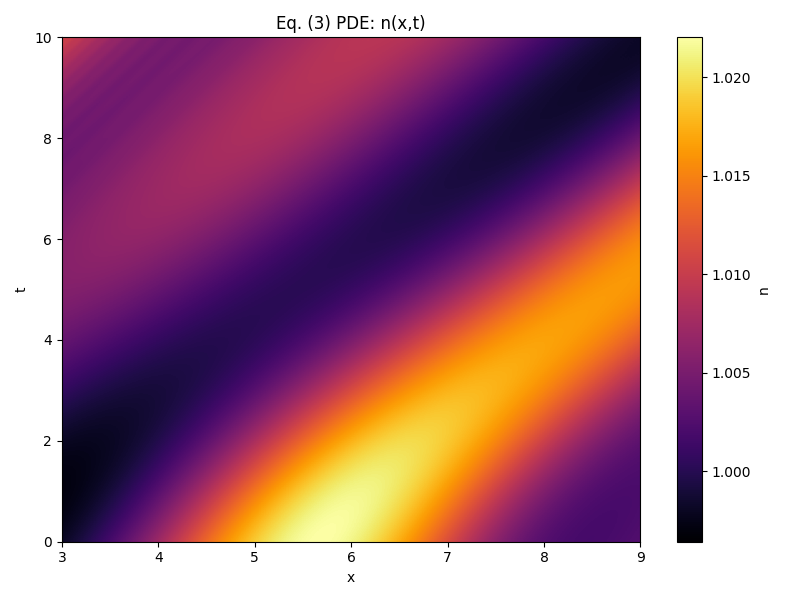
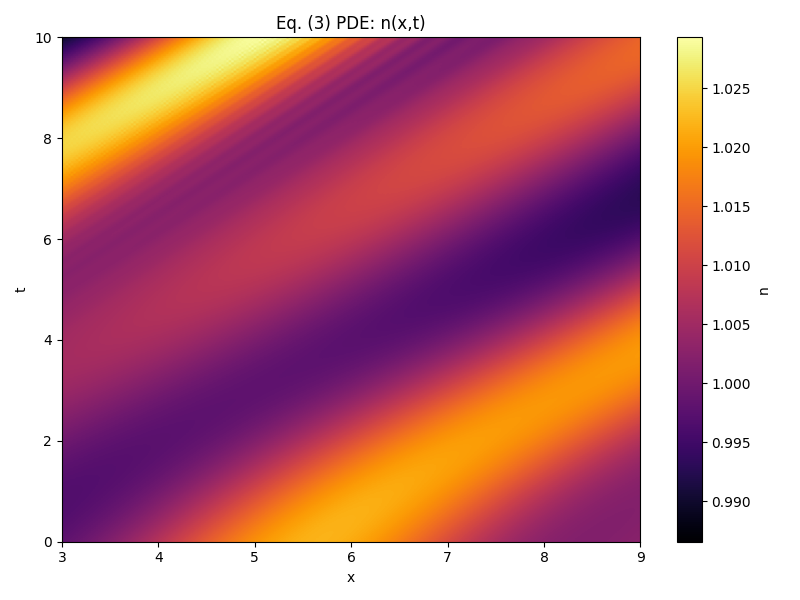
Add new simulation for zero initial velocity (Aligned REAL zero drift velocity) in 1D charged fluid with nonzero background density profile

diff --git a/animation/static background doping profile/nonzero background nbar/u (small)/zero-velocity-patch/zero_initial_velocity.py b/animation/static background doping profile/nonzero background nbar/u (small)/zero-velocity-patch/zero_initial_velocity.py
@@ -1,0 +1,195 @@
+import numpy as np
+import matplotlib.pyplot as plt
+from dataclasses import dataclass
+from numpy.fft import fft, ifft, fftfreq
+from scipy.integrate import solve_ivp
+import os
+
+# -------------------------- Parameters --------------------------
+@dataclass
+class Par:
+    m: float = 1.0
+    e: float = 1.0
+    n0: float = 1.0
+    U: float = 1.0                   # Π0'(n)=U n  -> c_s = sqrt(U n0 / m)
+    Gamma0: float = 0.08
+    w: float = 1.0
+    epsilon: float = 15.0
+    # background (fixed ionic profile used in Poisson)
+    n1: float = 0.02
+    lam: float = 0.005 / 4
+    x0: float = 0.55                 # as fraction of L
+    # numerics
+    L: float = 100.0
+    Nx: int = 256
+    t_final: float = 160.0
+    n_save: int = 220
+    rtol: float = 1e-7
+    atol: float = 1e-9
+    n_floor: float = 1e-12
+    # output
+    save_frames: bool = True
+    frames_dir: str = "frames_nbar"
+    cmap: str = "inferno"
+
+# >>> choose your target drift here
+u_target = 0.0   # try 0.0, 0.1, 0.2, ...
+
+par = Par()
+
+# ----------------------- Grid & spectral ops ---------------------
+x = np.linspace(0.0, par.L, par.Nx, endpoint=False)
+dx = x[1] - x[0]
+k  = 2*np.pi*fftfreq(par.Nx, d=dx)
+ik = 1j*k
+inv_k2 = np.zeros_like(k, dtype=np.complex128)
+nz = (k != 0); inv_k2[nz] = 1.0/(k[nz]**2)
+
+def Dx(f): return (ifft(ik*fft(f))).real
+
+# -------------------- Material and helpers ----------------------
+def Gamma(n): return par.Gamma0 * np.exp(-n/par.w)
+def Pi0(n):   return 0.5 * par.U * n**2
+
+def periodic_delta(x, x0, L):
+    return (x - x0 + 0.5*L) % L - 0.5*L
+
+def nbar_profile():
+    xc = par.x0 * par.L
+    d = periodic_delta(x, xc, par.L)
+    return par.n0 + par.n1 * np.exp(-0.5 * par.lam * d**2)
+
+# Poisson with background: φ'' = -(e/ε) (n - nbar)
+def phi_from_n_with_bg(n, nbar):
+    rhs_hat = fft((par.e/par.epsilon) * (n - nbar))
+    phi_hat = inv_k2 * rhs_hat
+    phi_hat[0] = 0.0
+    return ifft(phi_hat).real
+
+# -------------------- Equilibrium E(x) for given u ---------------------
+def E_equilibrium_profile(nbar, u):
+    # From steady momentum balance with phi_x = 0 and n = nbar:
+    # Γ(nbar) m nbar u + ∂x[ 0.5 U nbar^2 + m nbar u^2 ] = e nbar E(x)
+    # => E(x) = (m/e) Γ(nbar) u + ((U + m u^2)/(e nbar)) * ∂x nbar
+    dnb = Dx(nbar)
+    return (par.m/par.e) * Gamma(nbar) * u + ((par.U + par.m*u*u)/(par.e*nbar)) * dnb
+
+# ----------------------- Initial fields --------------------------
+def initial_fields(u_star):
+    nbar = nbar_profile()
+    # Start exactly on the static branch: n = nbar, p = m nbar u_star
+    n0 = np.maximum(nbar.copy(), par.n_floor)
+    p0 = par.m * n0 * u_star
+    # Spatially varying E to keep (nbar, u_star) steady when phi_x=0
+    E_x = E_equilibrium_profile(nbar, u_star)
+    return n0, p0, nbar, E_x
+
+# ----------------------- PDE RHS (full) --------------------------
+# (∂t + Γ(n)) p + ∂x Π = e n E(x) - e n ∂x φ ; Π = Π0(n) + p^2/(m n)
+def rhs_pde(t, y, E_x, nbar):
+    N = par.Nx
+    n = y[:N]; p = y[N:]
+    n_eff = np.maximum(n, par.n_floor)
+    v = p/(par.m*n_eff)
+
+    # continuity
+    dn_dt = -Dx(n_eff * v)
+
+    # momentum flux
+    Pi = Pi0(n_eff) + (p**2)/(par.m*n_eff)
+
+    # fields
+    phi  = phi_from_n_with_bg(n, nbar)
+    Ex   = E_x - Dx(phi)     # E(x) profile minus induced field
+
+    # momentum
+    dp_dt = -Gamma(n_eff)*p - Dx(Pi) + par.e*n_eff*Ex
+
+    return np.concatenate([dn_dt, dp_dt])
+
+# ----------------------- Run one experiment ---------------------
+def run_once(u_star):
+    n0, p0, nbar, E_x = initial_fields(u_star)
+    y0 = np.concatenate([n0, p0])
+    t_eval = np.linspace(0.0, par.t_final, par.n_save)
+
+    # sanity: residual of steady momentum balance at t=0 (should be ~0)
+    Pi0_now = Pi0(n0) + (p0**2)/(par.m*np.maximum(n0,par.n_floor))
+    R0 = Gamma(n0)*p0 + Dx(Pi0_now) - par.e*n0*E_x
+    print(f"[check t=0] max|residual| ≈ {np.max(np.abs(R0)):.2e}")
+
+    sol = solve_ivp(lambda t,y: rhs_pde(t,y,E_x,nbar),
+                    (0.0, par.t_final), y0, t_eval=t_eval,
+                    method="BDF", rtol=par.rtol, atol=par.atol)
+
+    N = par.Nx
+    n_t = sol.y[:N, :]
+    p_t = sol.y[N:, :]
+    u_t = p_t/(par.m*np.maximum(n_t, par.n_floor))
+    return sol.t, n_t, p_t, u_t, nbar, E_x
+
+# ----------------------- Diagnostics & plots --------------------
+def spacetime_dn(t, n_t, nbar, title=r"$\delta n(x,t)=n-\bar n$"):
+    dn = n_t - nbar[:, None]            # <-- true δn
+    extent = [x.min(), x.max(), t.min(), t.max()]
+    plt.figure(figsize=(10,4.6))
+    plt.imshow(dn.T, origin="lower", aspect="auto", extent=extent, cmap=par.cmap)
+    x0 = par.x0 * par.L
+    plt.plot([x0, x0], [t.min(), t.max()], 'w--', lw=1.3, alpha=0.8, label="defect center")
+    plt.colorbar(label=r"$\delta n$")
+    plt.xlabel("x"); plt.ylabel("t"); plt.title(title)
+    plt.legend(loc="upper right"); plt.tight_layout()
+    plt.savefig("spacetime_dn.png", dpi=160); plt.close()
+
+def save_animation_frames(t, n_t, p_t, nbar, u_star):
+    os.makedirs(par.frames_dir, exist_ok=True)
+    for j in range(len(t)):
+        n = n_t[:, j]; p = p_t[:, j]
+        n_eff = np.maximum(n, par.n_floor)
+        Pi = Pi0(n_eff) + (p**2)/(par.m*n_eff)
+        # residual w.r.t. *equilibrium* field only (phi excluded)
+        R = Gamma(n_eff)*p + Dx(Pi)  # - e n E_eq omitted on purpose here
+
+        fig, axs = plt.subplots(3, 1, figsize=(10, 7), sharex=True)
+        axs[0].plot(x, n - nbar, lw=2, label=r"$\delta n$")
+        axs[0].axhline(0, ls='--', lw=1)
+        axs[0].set_ylabel(r"$\delta n$")
+        axs[0].set_title(f"u_target={u_star:.3f}  |  t={t[j]:.2f}")
+
+        axs[1].plot(x, p/(par.m*np.maximum(n, par.n_floor)), lw=2, label="u(x,t)")
+        axs[1].axhline(u_star, ls='--', lw=1.4, label="target u")
+        axs[1].set_ylabel("u = p/(m n)")
+        axs[1].legend(loc="best", fontsize=9)
+
+        axs[2].plot(x, R, lw=1.8)
+        axs[2].set_ylabel("residual (no φ)")
+        axs[2].set_xlabel("x")
+
+        plt.tight_layout()
+        fname = f"{par.frames_dir}/frame_{j:04d}.png"
+        plt.savefig(fname, dpi=140); plt.close()
+
+def norms(a): return np.sqrt(np.mean(a*a)), np.max(np.abs(a))
+
+# ---------------------------- Run -------------------------------
+t, n_t, p_t, u_t, nbar, E_x = run_once(u_target)
+
+# Space–time of δn (fixed)
+spacetime_dn(t, n_t, nbar)
+
+if par.save_frames:
+    save_animation_frames(t, n_t, p_t, nbar, u_target)
+
+# Report achieved drift
+u_mean_0 = u_t[:, 0].mean()
+u_mean_T = u_t[:, -1].mean()
+print(f"<u>(t=0)  ≈ {u_mean_0:.4f}")
+print(f"<u>(t_end)≈ {u_mean_T:.4f}  (target {u_target:.4f})")
+
+# Extra diagnostics
+dn0 = n_t[:, 0] - nbar
+dnT = n_t[:, -1] - nbar
+l2_0, li_0 = norms(dn0)
+l2_T, li_T = norms(dnT)
+print(f"||δn||_L2:  t=0 -> {l2_0:.3e},   t_end -> {l2_T:.3e}")
+print(f"||δn||_L∞:  t=0 -> {li_0:.3e},  t_end -> {li_T:.3e}")
